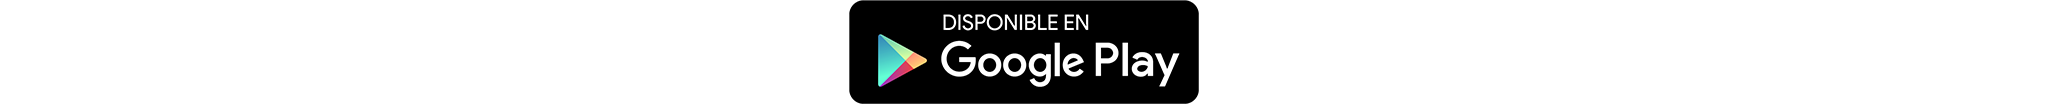
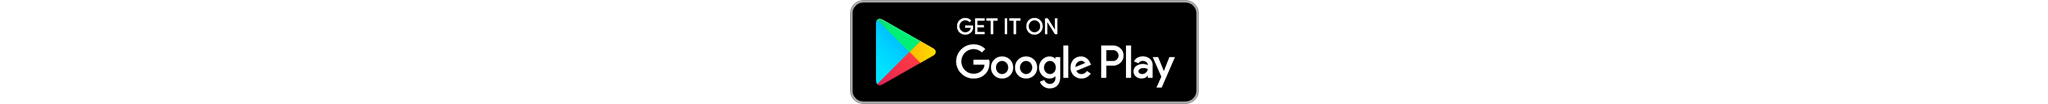
175 - Update README file

Changed region(s): [[0.4062, 0.1154, 0.5938, 0.8365], [0.4062, 0.9519, 0.5938, 1.0], [0.4062, 0.0, 0.5938, 0.0288]]

diff --git a/README.md b/README.md
@@ -1,12 +1,21 @@
-### ETSIT Noticias
+#ETSIT NEWS
 
-Aplicación ganadora del concurso a la mejor app de noticias de la ETSIT - AITCYL de la Universidad de Valladolid.
+Winner application in the "best news reader app from ETSIT – AITCYL contest" from University of Valladolid, Spain.
 
-Con esta aplicación podrás estar informado de las noticias del tablón de anuncios digital de la Escuela Técnica Superior de Ingenieros de Telecomunicación de la Universidad de Valladolid de manera fácil, rápida y en la palma de la mano.
+Developed by Felipe Joglar Santos.
 
-Podrás ver las noticias de una manera cómoda y rápida, consultar más información acerca de la noticia e incluso compartirla a través de las redes sociales con tus amigos y compañeros.
+With this application you can be informed of the news bulletin and digital news from the School of Telecommunications Engineering at the University of Valladolid easily, comfortably, and in the palm of your hand.
 
-También podrás recibir notificaciones cuando una noticia nueva haya sido publicada y modificar la frecuencia de sincronización de la aplicación.
+### FEATURES
+
+* Ability to save news as favorites.
+* Links to the interesting files of each new.
+* News category filter.
+* Ability to chare the news with your friends and in social network.
+* Customizable background sincronization.
+* New published news notifications.
+* "Material Design".
+* Delightful transitions and animations.
 
 ![](https://github.com/fjoglar/ETSIT-News/blob/master/assets/etsit-noticias-banner.png)
 
